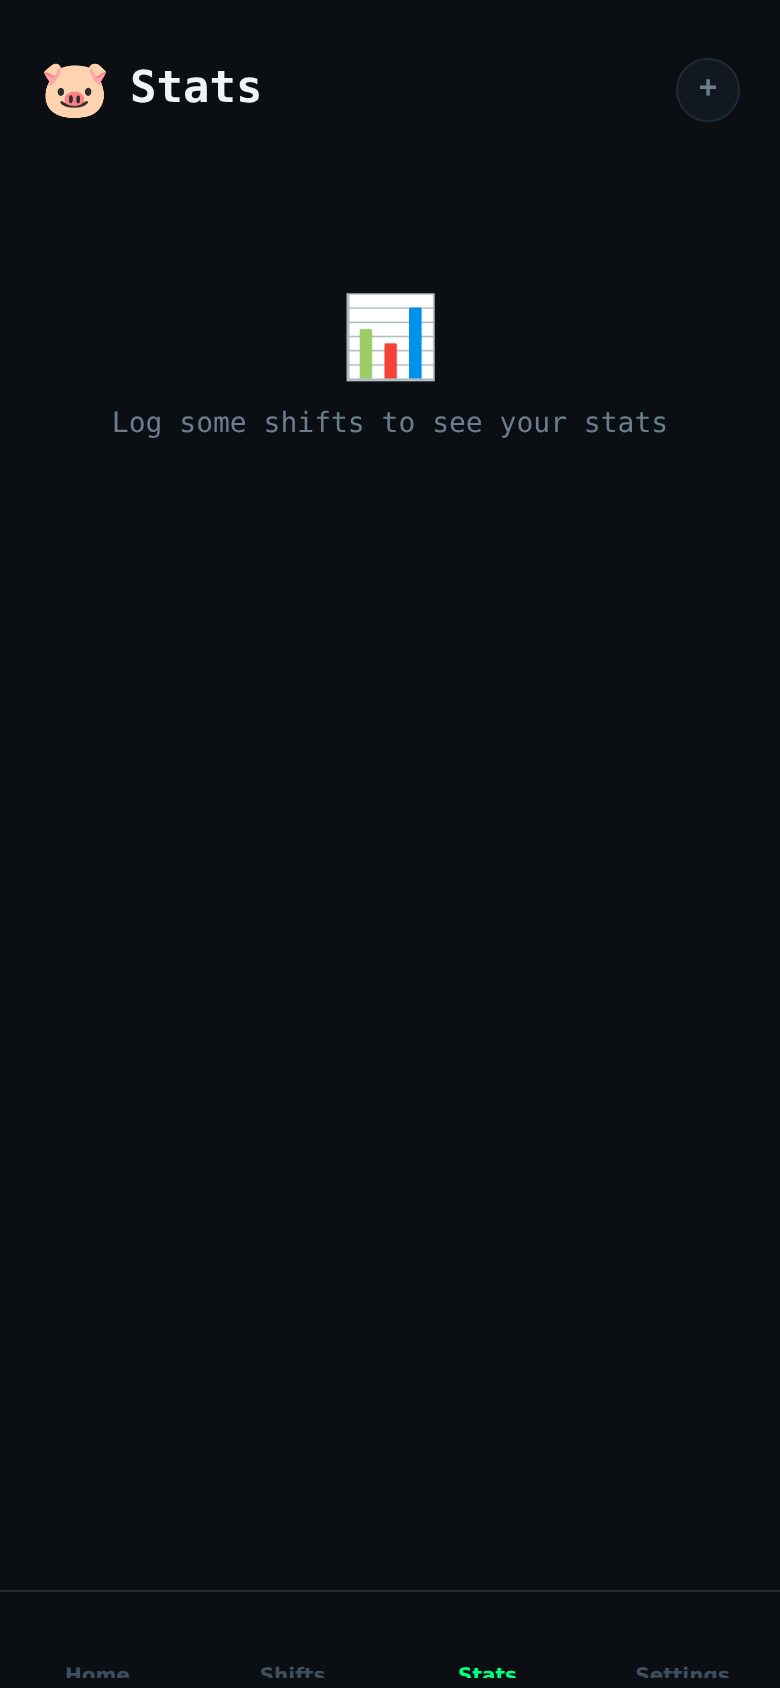
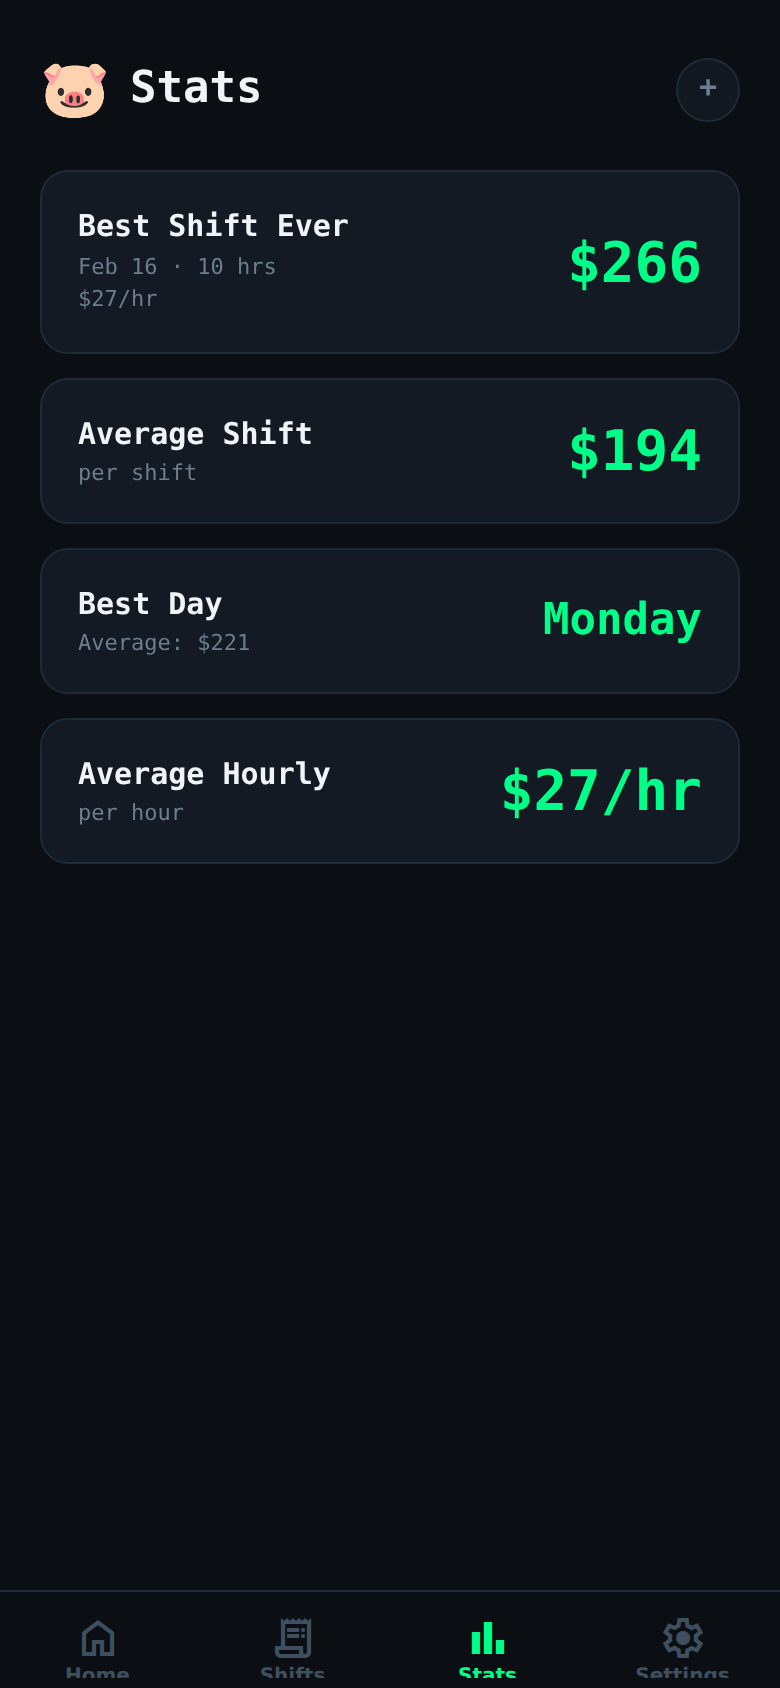
Add seed data generator for demo mode with realistic shift history
- Generate ~6 weeks of past shifts with varied tips, roles, and tags
- Include scheduled shifts, expenses, and goals
- Auto-load seed data on first launch (no existing data)
- Update screenshots showing populated Home ($204 today), Shifts (23 logged),
  Stats (best shift $266, avg $194, $27/hr), and full Settings

https://claude.ai/code/session_01QWfQnGjNmtonp1VpcDHxcJ

diff --git a/lib/seedData.ts b/lib/seedData.ts
@@ -1,0 +1,221 @@
+import { AppData, Shift, ScheduledShift, Expense, Goal } from './types';
+import { DEFAULT_SETTINGS } from './constants';
+
+// Deterministic ID generator for seed data
+let seedCounter = 0;
+function seedId(): string {
+  return `seed-${String(++seedCounter).padStart(4, '0')}`;
+}
+
+function formatDisplayDate(isoDate: string): string {
+  const [y, m, d] = isoDate.split('-').map(Number);
+  const date = new Date(y, m - 1, d);
+  return date.toLocaleDateString('en-US', { month: 'short', day: 'numeric' });
+}
+
+function getDayOfWeek(isoDate: string): string {
+  const [y, m, d] = isoDate.split('-').map(Number);
+  const date = new Date(y, m - 1, d);
+  return date.toLocaleDateString('en-US', { weekday: 'short' });
+}
+
+function toISODate(date: Date): string {
+  const y = date.getFullYear();
+  const m = String(date.getMonth() + 1).padStart(2, '0');
+  const d = String(date.getDate()).padStart(2, '0');
+  return `${y}-${m}-${d}`;
+}
+
+function addDays(isoDate: string, days: number): string {
+  const [y, m, d] = isoDate.split('-').map(Number);
+  const date = new Date(y, m - 1, d + days);
+  return toISODate(date);
+}
+
+// Seeded random for reproducibility
+let seed = 42;
+function rand(): number {
+  seed = (seed * 16807) % 2147483647;
+  return (seed - 1) / 2147483646;
+}
+function randInt(min: number, max: number): number {
+  return Math.floor(rand() * (max - min + 1)) + min;
+}
+function pick<T>(arr: T[]): T {
+  return arr[Math.floor(rand() * arr.length)];
+}
+
+const WAGE = 12.15;
+const ROLES = ['Server', 'Patio Server', 'Bartender'];
+const TAGS_POOL = ['Patio', 'Bar', 'Double', 'Event', 'Slow', 'Busy', 'Training', 'Holiday'];
+const SHIFT_TIMES = ['11:00 AM', '2:00 PM', '3:00 PM', '4:00 PM', '4:30 PM', '5:00 PM', '6:00 PM'];
+
+export function generateSeedData(): AppData {
+  seedCounter = 0;
+  seed = 42;
+
+  const today = new Date();
+  const todayISO = toISODate(today);
+  const shifts: Shift[] = [];
+  const now = new Date().toISOString();
+
+  // Generate ~6 weeks of past shifts (roughly 4-5 shifts per week)
+  for (let weeksAgo = 6; weeksAgo >= 0; weeksAgo--) {
+    // Pick 4-5 days per week to work
+    const daysWorked = weeksAgo === 0
+      ? randInt(2, Math.min(today.getDay(), 5))  // Current week: only up to today
+      : randInt(3, 5);
+
+    const weekStart = new Date(today);
+    weekStart.setDate(today.getDate() - today.getDay() - weeksAgo * 7);
+
+    const availableDays = weeksAgo === 0
+      ? Array.from({ length: today.getDay() + 1 }, (_, i) => i)
+      : [0, 1, 2, 3, 4, 5, 6];
+
+    // Shuffle and pick days
+    const shuffled = [...availableDays].sort(() => rand() - 0.5);
+    const workDays = shuffled.slice(0, daysWorked);
+
+    for (const dayOffset of workDays) {
+      const shiftDate = new Date(weekStart);
+      shiftDate.setDate(weekStart.getDate() + dayOffset);
+      const dateISO = toISODate(shiftDate);
+
+      // Skip future dates
+      if (dateISO > todayISO) continue;
+
+      const role = pick(ROLES);
+      const hours = pick([5, 5.5, 6, 6, 6.5, 7, 7, 8, 8, 10]); // doubles sometimes
+      const isWeekend = dayOffset === 5 || dayOffset === 6;
+      const isBartender = role === 'Bartender';
+
+      // Tips vary: weekends and bartenders earn more
+      const baseTips = randInt(60, 130);
+      const weekendBonus = isWeekend ? randInt(20, 60) : 0;
+      const bartenderBonus = isBartender ? randInt(15, 40) : 0;
+      const tips = baseTips + weekendBonus + bartenderBonus;
+
+      const cashTips = Math.round(tips * (rand() * 0.4 + 0.1)); // 10-50% cash
+      const creditTips = tips - cashTips;
+
+      const tipOutPercent = randInt(2, 5);
+      const tipOut = Math.round(tips * tipOutPercent / 100);
+
+      const totalSales = Math.round(tips / (rand() * 0.08 + 0.15)); // 15-23% tip rate
+      const totalEarned = +(hours * WAGE + tips - tipOut).toFixed(2);
+
+      // Add 0-2 tags
+      const numTags = randInt(0, 2);
+      const tags: string[] = [];
+      if (numTags > 0) {
+        if (isWeekend && rand() > 0.5) tags.push('Busy');
+        else if (rand() > 0.7) tags.push(pick(['Slow', 'Busy']));
+        if (hours >= 10) tags.push('Double');
+        if (tags.length < numTags && rand() > 0.5) tags.push(pick(['Patio', 'Bar', 'Event']));
+      }
+
+      shifts.push({
+        id: seedId(),
+        date: dateISO,
+        displayDate: formatDisplayDate(dateISO),
+        hours,
+        totalEarned,
+        tips,
+        tipOut,
+        hourlyWage: WAGE,
+        shiftTime: pick(SHIFT_TIMES),
+        role,
+        cashTips,
+        creditTips,
+        notes: rand() > 0.8 ? pick(['Great night!', 'Slow start but picked up', 'Big party of 12', 'Cut early', 'Covered for Mike']) : undefined,
+        tags,
+        totalSales,
+        tipOutMode: 'percent',
+        tipOutPercent,
+        createdAt: now,
+        updatedAt: now,
+      });
+    }
+  }
+
+  // Sort shifts by date
+  shifts.sort((a, b) => a.date.localeCompare(b.date));
+
+  // Generate upcoming scheduled shifts (next 7 days)
+  const schedule: ScheduledShift[] = [];
+  for (let daysAhead = 1; daysAhead <= 7; daysAhead++) {
+    if (rand() > 0.55) { // ~45% chance of work each day
+      const dateISO = addDays(todayISO, daysAhead);
+      const role = pick(ROLES);
+      const startTime = pick(['11:00 AM', '3:00 PM', '4:00 PM', '5:00 PM']);
+      schedule.push({
+        id: seedId(),
+        date: dateISO,
+        displayDate: formatDisplayDate(dateISO),
+        dayOfWeek: getDayOfWeek(dateISO),
+        startTime,
+        role,
+        estimatedHours: pick([5, 6, 6, 7, 8]),
+        logged: false,
+        createdAt: now,
+        updatedAt: now,
+      });
+    }
+  }
+
+  // Generate expenses (past month)
+  const expenses: Expense[] = [];
+  const expenseItems: { cat: Expense['category']; desc: string; min: number; max: number }[] = [
+    { cat: 'mileage', desc: 'Commute to restaurant', min: 5, max: 15 },
+    { cat: 'uniform', desc: 'New black apron', min: 15, max: 35 },
+    { cat: 'uniform', desc: 'Non-slip shoes', min: 45, max: 80 },
+    { cat: 'supplies', desc: 'Wine key & pen set', min: 8, max: 20 },
+    { cat: 'supplies', desc: 'Server book', min: 12, max: 25 },
+    { cat: 'other', desc: 'Food handler certification', min: 25, max: 40 },
+  ];
+  for (let i = 0; i < 5; i++) {
+    const item = pick(expenseItems);
+    const daysAgo = randInt(1, 35);
+    const dateISO = addDays(todayISO, -daysAgo);
+    expenses.push({
+      id: seedId(),
+      date: dateISO,
+      category: item.cat,
+      amount: randInt(item.min, item.max),
+      description: item.desc,
+      createdAt: now,
+    });
+  }
+
+  // Goals
+  const goals: Goal[] = [
+    { id: seedId(), type: 'daily', target: 150, isActive: true, createdAt: now },
+    { id: seedId(), type: 'weekly', target: 800, isActive: true, createdAt: now },
+    { id: seedId(), type: 'monthly', target: 3200, isActive: true, createdAt: now },
+  ];
+
+  return {
+    shifts,
+    schedule,
+    jobs: [],
+    expenses,
+    goals,
+    clients: [],
+    settings: {
+      ...DEFAULT_SETTINGS,
+      enableTaxTracking: true,
+      taxFilingStatus: 'single',
+      stateTaxRate: 5.0,
+      appearance: 'dark',
+      accentColor: 'green',
+      lastRole: 'Server',
+      lastTipOutMode: 'percent',
+      lastTipOutPercent: 3,
+    },
+    version: 2,
+    updatedAt: now,
+    hasSeenOnboarding: true,
+    isNewCustomerMode: false,
+  };
+}

diff --git a/lib/storage.ts b/lib/storage.ts
@@ -1,6 +1,7 @@
 import AsyncStorage from '@react-native-async-storage/async-storage';
 import { AppData } from './types';
 import { STORAGE_KEY, DEFAULT_APP_DATA } from './constants';
+import { generateSeedData } from './seedData';
 
 function migrateV1toV2(data: any): any {
   const shifts = (data.shifts || []).map((s: any) => ({
@@ -41,7 +42,10 @@ export const Storage = {
         };
       }
     } catch {}
-    return { ...DEFAULT_APP_DATA, updatedAt: new Date().toISOString() };
+    // Load seed data on first launch so the app isn't empty
+    const seeded = generateSeedData();
+    await AsyncStorage.setItem(STORAGE_KEY, JSON.stringify({ ...seeded, updatedAt: new Date().toISOString() }));
+    return seeded;
   },
 
   set: async (data: AppData): Promise<void> => {
